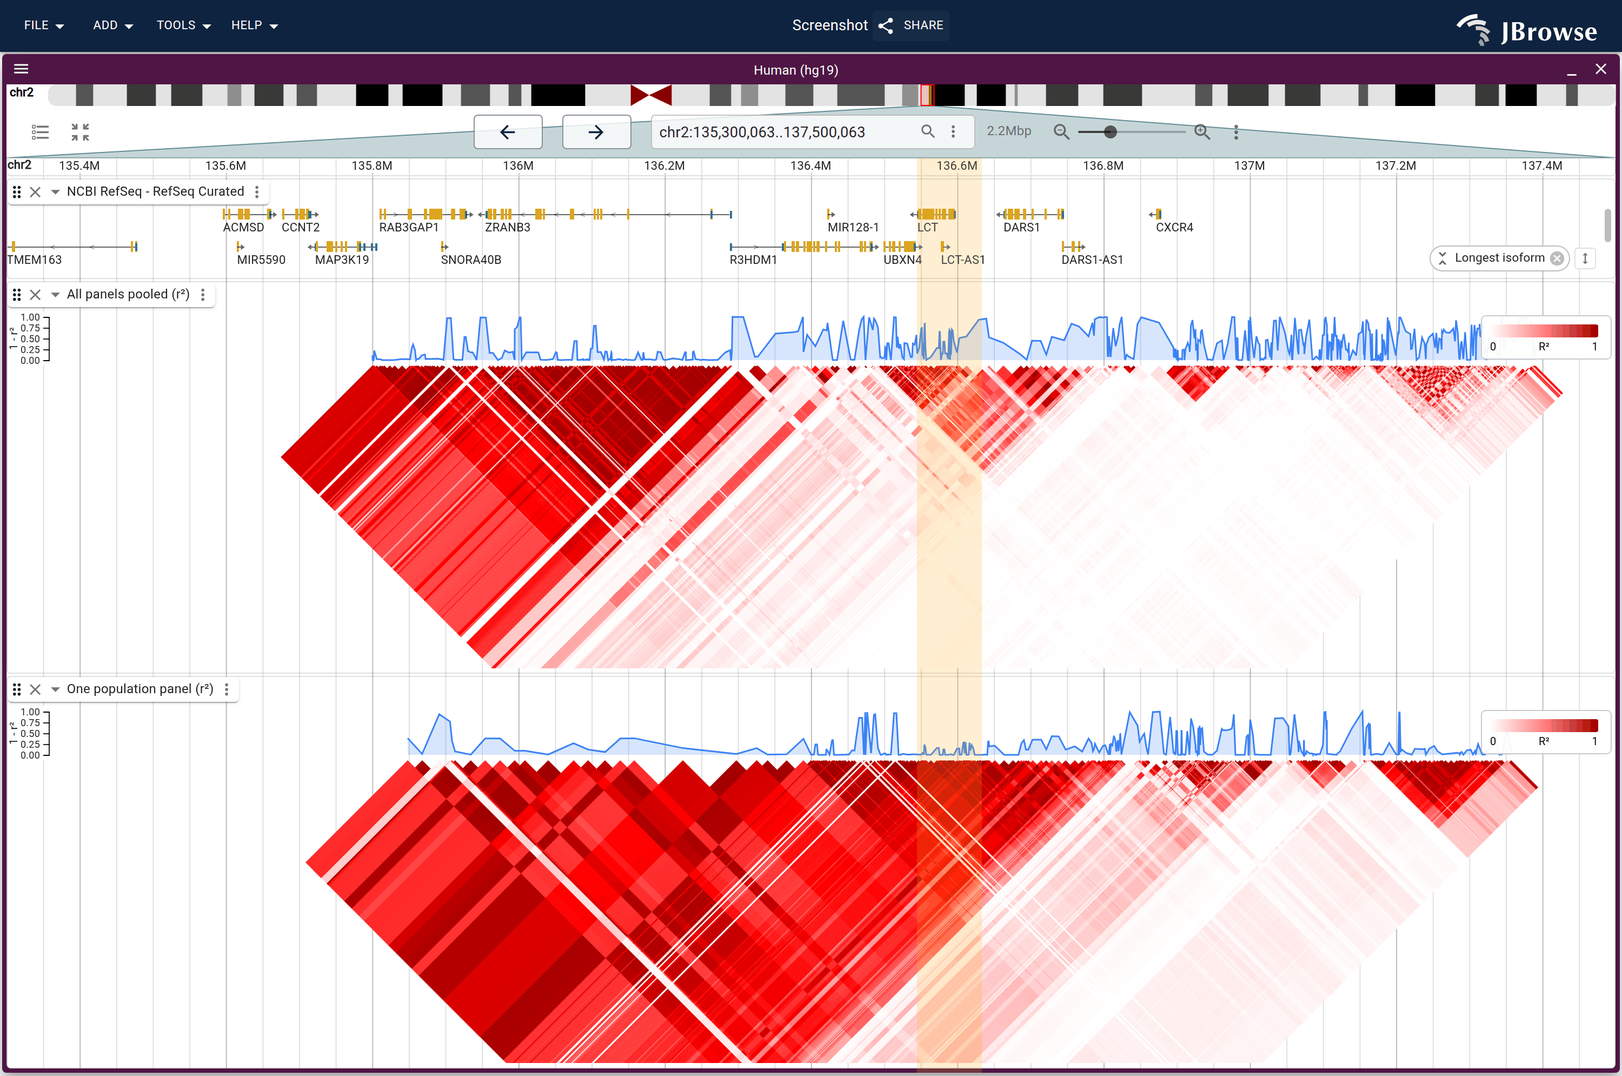
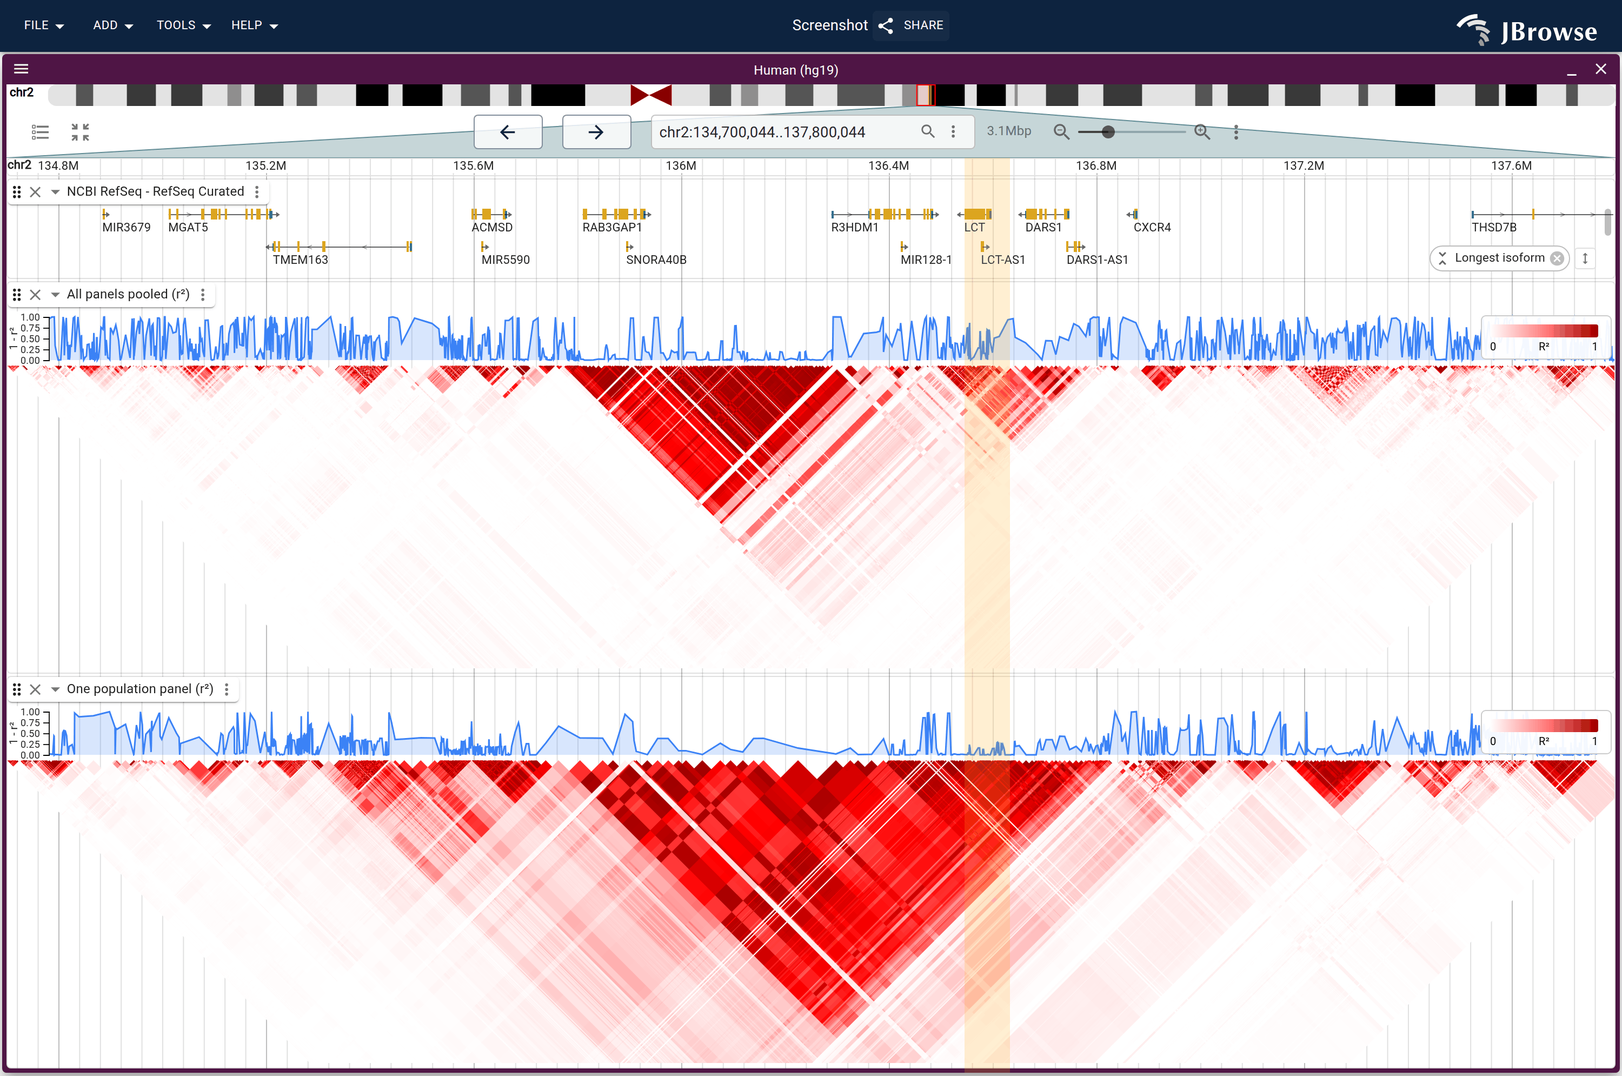
docs(website): widen the pooled-vs-panel LD figure onto the same slice
Both LCT figures now read the 3.3 Mb slices and take the same window, so neither
lane is cut at the edge it is claiming. The pooled slice
(lct_1kg_chr2_pooled_wide.vcf.gz, 16.6 MB, built by the same script) is uploaded
beside the panel one; the pooled lane's live link fetches it, which is the cost of
the wider window on 2504 samples.

The figure had been left narrow on the grounds that its point is which samples
went in rather than where the block ends. That made the page teach "cut the slice
wider than the block" directly above a figure that did not, so the caveat is gone
from the caption too.

The full window appeared to hang twice while rendering, and two narrower windows
were rendered while chasing it; that was CPU contention with a second
generate-screenshots process on the same machine, not the window. It lands in
about 100 s on a free machine, which the spec now records so the next person does
not narrow anything.

Also drops the resolved "Gallery cards hide their live links behind the guide
link" TODO: gallery.astro renders every link from itemLinks now, the 1000 Genomes
card points at tutorials/population_cnv, and the duplicate-pair decision is
recorded in gallery.ts.

A second population panel was measured rather than argued about, and is not drawn:
the reason is editorial (this page teaches subsetting; the population-specific
sweep lesson belongs to the mosquito page, where the populations are mosquitoes),
[…]

diff --git a/website/src/lib/galleryLinks.generated.ts b/website/src/lib/galleryLinks.generated.ts
@@ -136,7 +136,7 @@ export const specSessionUrls: Record<string, string> = {
   "methylation/arabidopsis_wgbs_contexts": "?config=test_data/arabidopsis_methylation/config_emseq_bisulfite.json&session=spec-%7B%22sessionTracks%22%3A%5B%7B%22type%22%3A%22AlignmentsTrack%22%2C%22trackId%22%3A%22arabidopsis_wgbs_cg%22%2C%22name%22%3A%22Per-read%20WGBS%20%E2%80%94%20CpG%20context%22%2C%22assemblyNames%22%3A%5B%22arabidopsis%22%5D%2C%22adapter%22%3A%7B%22type%22%3A%22CramAdapter%22%2C%22uri%22%3A%22https%3A%2F%2Fjbrowse.org%2Fdemos%2Fbisulfite%2Farabidopsis_wgbs_bisulfite.cram%22%7D%7D%2C%7B%22type%22%3A%22AlignmentsTrack%22%2C%22trackId%22%3A%22arabidopsis_wgbs_chg%22%2C%22name%22%3A%22Per-read%20WGBS%20%E2%80%94%20CHG%20context%22%2C%22assemblyNames%22%3A%5B%22arabidopsis%22%5D%2C%22adapter%22%3A%7B%22type%22%3A%22CramAdapter%22%2C%22uri%22%3A%22https%3A%2F%2Fjbrowse.org%2Fdemos%2Fbisulfite%2Farabidopsis_wgbs_bisulfite.cram%22%7D%7D%2C%7B%22type%22%3A%22AlignmentsTrack%22%2C%22trackId%22%3A%22arabidopsis_wgbs_chh%22%2C%22name%22%3A%22Per-read%20WGBS%20%E2%80%94%20CHH%20context%22%2C%22assemblyNames%22%3A%5B%22arabidopsis%22%5D%2C%22adapter%22%3A%7B%22type%22%3A%22CramAdapter%22%2C%22uri%22%3A%22https%3A%2F%2Fjbrowse.org%2Fdemos%2Fbisulfite%2Farabidopsis_wgbs_bisulfite.cram%22%7D%7D%5D%2C%22views%22%3A%5B%7B%22type%22%3A%22LinearGenomeView%22%2C%22assembly%22%3A%22arabidopsis%22%2C%22loc%22%3A%22NC_003070.9%3A4%2C398%2C000-4%2C412%2C000%22%2C%22tracks%22%3A%5B%7B%22trackId%22%3A%22arabidopsis_genes%22%7D%2C%7B%22trackId%22%3A%22arabidopsis_methyldackel%22%2C%22type%22%3A%22MultiLinearWiggleDisplay%22%2C%22defaultRendering%22%3A%22multirowxy%22%2C%22minScore%22%3A0%2C%22maxScore%22%3A100%2C%22height%22%3A170%7D%2C%7B%22trackId%22%3A%22arabidopsis_wgbs_cg%22%2C%22type%22%3A%22LinearAlignmentsDisplay%22%2C%22colorBy%22%3A%7B%22type%22%3A%22bisulfite%22%2C%22modifications%22%3A%7B%22cytosineContext%22%3A%22CG%22%7D%7D%2C%22showCoverage%22%3Afalse%2C%22heightMode%22%3A%22fixed%22%2C%22featureHeight%22%3A3%2C%22featureSpacing%22%3A0%2C%22height%22%3A90%7D%2C%7B%22trackId%22%3A%22arabidopsis_wgbs_chg%22%2C%22type%22%3A%22LinearAlignmentsDisplay%22%2C%22colorBy%22%3A%7B%22type%22%3A%22bisulfite%22%2C%22modifications%22%3A%7B%22cytosineContext%22%3A%22CHG%22%7D%7D%2C%22showCoverage%22%3Afalse%2C%22heightMode%22%3A%22fixed%22%2C%22featureHeight%22%3A3%2C%22featureSpacing%22%3A0%2C%22height%22%3A90%7D%2C%7B%22trackId%22%3A%22arabidopsis_wgbs_chh%22%2C%22type%22%3A%22LinearAlignmentsDisplay%22%2C%22colorBy%22%3A%7B%22type%22%3A%22bisulfite%22%2C%22modifications%22%3A%7B%22cytosineContext%22%3A%22CHH%22%7D%7D%2C%22showCoverage%22%3Afalse%2C%22heightMode%22%3A%22fixed%22%2C%22featureHeight%22%3A3%2C%22featureSpacing%22%3A0%2C%22height%22%3A90%7D%5D%7D%5D%7D&sessionName=Screenshot",
   "methylation/chromatin_accessibility_6ma": "?config=test_data/config_demo.json&session=spec-%7B%22sessionTracks%22%3A%5B%7B%22type%22%3A%22FeatureTrack%22%2C%22trackId%22%3A%22gencode_promoter_hg38_ucsc%22%2C%22name%22%3A%22GENCODE%20v48%20promoter%20windows%20(UCSC)%22%2C%22assemblyNames%22%3A%5B%22hg38%22%5D%2C%22adapter%22%3A%7B%22type%22%3A%22Gff3TabixAdapter%22%2C%22gffGzLocation%22%3A%7B%22uri%22%3A%22https%3A%2F%2Fjbrowse.org%2Fucsc%2Fhg38%2Fgencode.v48.promoter_windows.sorted.gff3.gz%22%2C%22locationType%22%3A%22UriLocation%22%7D%2C%22index%22%3A%7B%22location%22%3A%7B%22uri%22%3A%22https%3A%2F%2Fjbrowse.org%2Fucsc%2Fhg38%2Fgencode.v48.promoter_windows.sorted.gff3.gz.csi%22%2C%22locationType%22%3A%22UriLocation%22%7D%2C%22indexType%22%3A%22CSI%22%7D%7D%7D%5D%2C%22views%22%3A%5B%7B%22type%22%3A%22LinearGenomeView%22%2C%22assembly%22%3A%22hg38%22%2C%22loc%22%3A%22chr12%3A6%2C528%2C000-6%2C543%2C000%22%2C%22tracks%22%3A%5B%7B%22trackId%22%3A%22ncbi_refseq_109_hg38_latest%22%2C%22type%22%3A%22LinearBasicDisplay%22%2C%22geneGlyphMode%22%3A%22longestCoding%22%7D%2C%22gencode_promoter_hg38_ucsc%22%2C%7B%22trackId%22%3A%22PAY22766-nanopore%22%2C%22type%22%3A%22LinearAlignmentsDisplay%22%2C%22colorBy%22%3A%7B%22type%22%3A%22modifications%22%2C%22modifications%22%3A%7B%22shownModifications%22%3A%5B%22a%22%5D%7D%7D%2C%22heightMode%22%3A%22fixed%22%2C%22featureHeight%22%3A3%2C%22featureSpacing%22%3A0%2C%22showLegend%22%3Atrue%7D%2C%7B%22trackId%22%3A%22PBA15131-nanopore%22%2C%22type%22%3A%22LinearAlignmentsDisplay%22%2C%22colorBy%22%3A%7B%22type%22%3A%22modifications%22%2C%22modifications%22%3A%7B%22shownModifications%22%3A%5B%22a%22%5D%7D%7D%2C%22heightMode%22%3A%22fixed%22%2C%22featureHeight%22%3A3%2C%22featureSpacing%22%3A0%7D%5D%7D%5D%7D&sessionName=Screenshot",
   "methylation/hg002_snrpn_combined": "?config=test_data/config_demo.json&session=spec-%7B%22views%22%3A%5B%7B%22type%22%3A%22LinearGenomeView%22%2C%22assembly%22%3A%22hg38%22%2C%22loc%22%3A%22chr15%3A24%2C948%2C000-24%2C962%2C000%22%2C%22tracks%22%3A%5B%7B%22trackId%22%3A%22cpgisland_ucsc_hg38%22%2C%22type%22%3A%22LinearBasicDisplay%22%2C%22height%22%3A40%7D%2C%7B%22trackId%22%3A%22ncbi_refseq_109_hg38_latest%22%2C%22type%22%3A%22LinearBasicDisplay%22%2C%22geneGlyphMode%22%3A%22longestCoding%22%2C%22displayMode%22%3A%22compact%22%2C%22height%22%3A90%7D%2C%7B%22trackId%22%3A%22HG002_snrpn_modkit_hp1%22%2C%22type%22%3A%22MultiLinearWiggleDisplay%22%2C%22defaultRendering%22%3A%22multirowxy%22%2C%22minScore%22%3A0%2C%22maxScore%22%3A100%2C%22height%22%3A90%7D%2C%7B%22trackId%22%3A%22HG002_snrpn_modkit_hp2%22%2C%22type%22%3A%22MultiLinearWiggleDisplay%22%2C%22defaultRendering%22%3A%22multirowxy%22%2C%22minScore%22%3A0%2C%22maxScore%22%3A100%2C%22height%22%3A90%7D%2C%7B%22trackId%22%3A%22HG002_snrpn_5mC_reads%22%2C%22type%22%3A%22LinearAlignmentsDisplay%22%2C%22height%22%3A460%2C%22forceLoad%22%3Atrue%2C%22groupBy%22%3A%7B%22type%22%3A%22tag%22%2C%22tag%22%3A%22HP%22%7D%2C%22colorBy%22%3A%7B%22type%22%3A%22modifications%22%2C%22modifications%22%3A%7B%22fillUnmarked%22%3Atrue%7D%7D%7D%5D%7D%5D%7D&sessionName=Screenshot",
-  "ld/lct_pooled_vs_panel": "?config=https%3A%2F%2Fjbrowse.org%2Fucsc%2Fhg19%2Fconfig.json&session=spec-%7B%22sessionTracks%22%3A%5B%7B%22type%22%3A%22VariantTrack%22%2C%22trackId%22%3A%22kgp_lct_pooled%22%2C%22name%22%3A%22All%20panels%20pooled%20(r%C2%B2)%22%2C%22assemblyNames%22%3A%5B%22hg19%22%5D%2C%22adapter%22%3A%7B%22type%22%3A%22VcfTabixAdapter%22%2C%22uri%22%3A%22https%3A%2F%2Fjbrowse.org%2Fdemos%2Fpopgen%2Flct_1kg_chr2.vcf.gz%22%2C%22fetchSizeLimit%22%3A500000000%7D%2C%22displays%22%3A%5B%7B%22type%22%3A%22LDDisplay%22%2C%22showLDTriangle%22%3Atrue%2C%22showLegend%22%3Atrue%2C%22showRecombination%22%3Atrue%2C%22minorAlleleFrequencyFilter%22%3A0.35%2C%22height%22%3A330%2C%22useGenomicPositions%22%3Atrue%7D%5D%7D%2C%7B%22type%22%3A%22VariantTrack%22%2C%22trackId%22%3A%22kgp_lct_panel%22%2C%22name%22%3A%22One%20population%20panel%20(r%C2%B2)%22%2C%22assemblyNames%22%3A%5B%22hg19%22%5D%2C%22adapter%22%3A%7B%22type%22%3A%22VcfTabixAdapter%22%2C%22uri%22%3A%22https%3A%2F%2Fjbrowse.org%2Fdemos%2Fpopgen%2Flct_1kg_chr2_eur.vcf.gz%22%2C%22fetchSizeLimit%22%3A500000000%7D%2C%22displays%22%3A%5B%7B%22type%22%3A%22LDDisplay%22%2C%22showLDTriangle%22%3Atrue%2C%22showLegend%22%3Atrue%2C%22showRecombination%22%3Atrue%2C%22minorAlleleFrequencyFilter%22%3A0.35%2C%22height%22%3A330%2C%22useGenomicPositions%22%3Atrue%7D%5D%7D%5D%2C%22views%22%3A%5B%7B%22type%22%3A%22LinearGenomeView%22%2C%22assembly%22%3A%22hg19%22%2C%22loc%22%3A%22chr2%3A135%2C300%2C000-137%2C500%2C000%22%2C%22highlight%22%3A%5B%7B%22refName%22%3A%22chr2%22%2C%22start%22%3A136545410%2C%22end%22%3A136634000%2C%22assemblyName%22%3A%22hg19%22%7D%5D%2C%22tracks%22%3A%5B%7B%22trackId%22%3A%22hg19-ncbiRefSeqCurated%22%2C%22type%22%3A%22LinearBasicDisplay%22%2C%22height%22%3A60%2C%22showOnlyGenes%22%3Atrue%7D%2C%7B%22trackId%22%3A%22kgp_lct_pooled%22%2C%22type%22%3A%22LDDisplay%22%7D%2C%7B%22trackId%22%3A%22kgp_lct_panel%22%2C%22type%22%3A%22LDDisplay%22%7D%5D%7D%5D%7D&sessionName=Screenshot",
+  "ld/lct_pooled_vs_panel": "?config=https%3A%2F%2Fjbrowse.org%2Fucsc%2Fhg19%2Fconfig.json&session=spec-%7B%22sessionTracks%22%3A%5B%7B%22type%22%3A%22VariantTrack%22%2C%22trackId%22%3A%22kgp_lct_pooled%22%2C%22name%22%3A%22All%20panels%20pooled%20(r%C2%B2)%22%2C%22assemblyNames%22%3A%5B%22hg19%22%5D%2C%22adapter%22%3A%7B%22type%22%3A%22VcfTabixAdapter%22%2C%22uri%22%3A%22https%3A%2F%2Fjbrowse.org%2Fdemos%2Fpopgen%2Flct_1kg_chr2_pooled_wide.vcf.gz%22%2C%22fetchSizeLimit%22%3A500000000%7D%2C%22displays%22%3A%5B%7B%22type%22%3A%22LDDisplay%22%2C%22showLDTriangle%22%3Atrue%2C%22showLegend%22%3Atrue%2C%22showRecombination%22%3Atrue%2C%22minorAlleleFrequencyFilter%22%3A0.35%2C%22height%22%3A330%2C%22useGenomicPositions%22%3Atrue%7D%5D%7D%2C%7B%22type%22%3A%22VariantTrack%22%2C%22trackId%22%3A%22kgp_lct_panel%22%2C%22name%22%3A%22One%20population%20panel%20(r%C2%B2)%22%2C%22assemblyNames%22%3A%5B%22hg19%22%5D%2C%22adapter%22%3A%7B%22type%22%3A%22VcfTabixAdapter%22%2C%22uri%22%3A%22https%3A%2F%2Fjbrowse.org%2Fdemos%2Fpopgen%2Flct_1kg_chr2_eur_wide.vcf.gz%22%2C%22fetchSizeLimit%22%3A500000000%7D%2C%22displays%22%3A%5B%7B%22type%22%3A%22LDDisplay%22%2C%22showLDTriangle%22%3Atrue%2C%22showLegend%22%3Atrue%2C%22showRecombination%22%3Atrue%2C%22minorAlleleFrequencyFilter%22%3A0.35%2C%22height%22%3A330%2C%22useGenomicPositions%22%3Atrue%7D%5D%7D%5D%2C%22views%22%3A%5B%7B%22type%22%3A%22LinearGenomeView%22%2C%22assembly%22%3A%22hg19%22%2C%22loc%22%3A%22chr2%3A134%2C700%2C000-137%2C800%2C000%22%2C%22highlight%22%3A%5B%7B%22refName%22%3A%22chr2%22%2C%22start%22%3A136545410%2C%22end%22%3A136634000%2C%22assemblyName%22%3A%22hg19%22%7D%5D%2C%22tracks%22%3A%5B%7B%22trackId%22%3A%22hg19-ncbiRefSeqCurated%22%2C%22type%22%3A%22LinearBasicDisplay%22%2C%22height%22%3A60%2C%22showOnlyGenes%22%3Atrue%7D%2C%7B%22trackId%22%3A%22kgp_lct_pooled%22%2C%22type%22%3A%22LDDisplay%22%7D%2C%7B%22trackId%22%3A%22kgp_lct_panel%22%2C%22type%22%3A%22LDDisplay%22%7D%5D%7D%5D%7D&sessionName=Screenshot",
   "ld/anopheles_2la": "?config=https%3A%2F%2Fjbrowse.org%2Fucsc%2FanoGam3%2Fconfig.json&session=spec-%7B%22sessionTracks%22%3A%5B%7B%22type%22%3A%22LDTrack%22%2C%22trackId%22%3A%22ag1000g_2l_cmgam%22%2C%22name%22%3A%22Cameroon%2C%20both%20arrangements%20segregating%20(r%C2%B2)%22%2C%22assemblyNames%22%3A%5B%22anoGam3%22%5D%2C%22adapter%22%3A%7B%22type%22%3A%22PlinkLDTabixAdapter%22%2C%22uri%22%3A%22https%3A%2F%2Fjbrowse.org%2Fdemos%2Fpopgen%2Fag1000g_2L_CMgam.ld.gz%22%7D%2C%22displays%22%3A%5B%7B%22type%22%3A%22LDTrackDisplay%22%2C%22ldMetric%22%3A%22r2%22%2C%22useGenomicPositions%22%3Atrue%2C%22showLegend%22%3Atrue%2C%22height%22%3A300%7D%5D%7D%2C%7B%22type%22%3A%22LDTrack%22%2C%22trackId%22%3A%22ag1000g_2l_gagam%22%2C%22name%22%3A%22Gabon%2C%20fixed%20for%20one%20arrangement%20(r%C2%B2)%22%2C%22assemblyNames%22%3A%5B%22anoGam3%22%5D%2C%22adapter%22%3A%7B%22type%22%3A%22PlinkLDTabixAdapter%22%2C%22uri%22%3A%22https%3A%2F%2Fjbrowse.org%2Fdemos%2Fpopgen%2Fag1000g_2L_GAgam.ld.gz%22%7D%2C%22displays%22%3A%5B%7B%22type%22%3A%22LDTrackDisplay%22%2C%22ldMetric%22%3A%22r2%22%2C%22useGenomicPositions%22%3Atrue%2C%22showLegend%22%3Atrue%2C%22height%22%3A300%7D%5D%7D%5D%2C%22views%22%3A%5B%7B%22type%22%3A%22LinearGenomeView%22%2C%22assembly%22%3A%22anoGam3%22%2C%22loc%22%3A%22chr2L%22%2C%22tracks%22%3A%5B%7B%22trackId%22%3A%22ag1000g_2l_cmgam%22%2C%22type%22%3A%22LDTrackDisplay%22%7D%2C%7B%22trackId%22%3A%22ag1000g_2l_gagam%22%2C%22type%22%3A%22LDTrackDisplay%22%7D%5D%7D%5D%7D&sessionName=Screenshot",
   "ld/lct_lactase": "?config=https%3A%2F%2Fjbrowse.org%2Fucsc%2Fhg19%2Fconfig.json&session=spec-%7B%22sessionTracks%22%3A%5B%7B%22type%22%3A%22VariantTrack%22%2C%22trackId%22%3A%22kgp_lct_ld%22%2C%22name%22%3A%22LCT%20lactase-persistence%20LD%2C%201000G%20European%20panel%20(r%C2%B2)%22%2C%22assemblyNames%22%3A%5B%22hg19%22%5D%2C%22adapter%22%3A%7B%22type%22%3A%22VcfTabixAdapter%22%2C%22uri%22%3A%22https%3A%2F%2Fjbrowse.org%2Fdemos%2Fpopgen%2Flct_1kg_chr2_eur_wide.vcf.gz%22%2C%22fetchSizeLimit%22%3A500000000%7D%2C%22displays%22%3A%5B%7B%22type%22%3A%22LDDisplay%22%2C%22showLDTriangle%22%3Atrue%2C%22showLegend%22%3Atrue%2C%22showRecombination%22%3Atrue%2C%22minorAlleleFrequencyFilter%22%3A0.35%2C%22useGenomicPositions%22%3Atrue%2C%22height%22%3A510%7D%5D%7D%5D%2C%22views%22%3A%5B%7B%22type%22%3A%22LinearGenomeView%22%2C%22assembly%22%3A%22hg19%22%2C%22loc%22%3A%22chr2%3A134%2C700%2C000-137%2C800%2C000%22%2C%22highlight%22%3A%5B%7B%22refName%22%3A%22chr2%22%2C%22start%22%3A136545410%2C%22end%22%3A136634000%2C%22assemblyName%22%3A%22hg19%22%7D%5D%2C%22tracks%22%3A%5B%7B%22trackId%22%3A%22hg19-ncbiRefSeqCurated%22%2C%22type%22%3A%22LinearBasicDisplay%22%2C%22height%22%3A60%2C%22showOnlyGenes%22%3Atrue%7D%2C%7B%22trackId%22%3A%22hg19-clinvarMain%22%2C%22type%22%3A%22LinearBasicDisplay%22%2C%22height%22%3A70%2C%22jexlFiltersSetting%22%3A%5B%22jexl%3Aget(feature%2C'phenotypeList')%3D%3D'LACTASE%20PERSISTENCE'%22%5D%7D%2C%7B%22trackId%22%3A%22kgp_lct_ld%22%2C%22type%22%3A%22LDDisplay%22%7D%5D%7D%5D%7D&sessionName=Screenshot",
   "popgen/fst_in2lt_2L": "?config=https%3A%2F%2Fjbrowse.org%2Fucsc%2Fdm6%2Fconfig.json&session=spec-%7B%22sessionTracks%22%3A%5B%7B%22type%22%3A%22FeatureTrack%22%2C%22trackId%22%3A%22in2lt_inversion%22%2C%22name%22%3A%22In(2L)t%20inversion%22%2C%22assemblyNames%22%3A%5B%22dm6%22%5D%2C%22adapter%22%3A%7B%22type%22%3A%22FromConfigAdapter%22%2C%22adapterId%22%3A%22in2lt%22%2C%22features%22%3A%5B%7B%22uniqueId%22%3A%22in2lt%22%2C%22refName%22%3A%22chr2L%22%2C%22start%22%3A2225744%2C%22end%22%3A13154180%2C%22name%22%3A%22In(2L)t%22%2C%22type%22%3A%22inversion%22%7D%5D%7D%7D%2C%7B%22type%22%3A%22QuantitativeTrack%22%2C%22trackId%22%3A%22fst_in2lt%22%2C%22name%22%3A%22Fst%20(In(2L)t%20vs%20standard)%22%2C%22assemblyNames%22%3A%5B%22dm6%22%5D%2C%22adapter%22%3A%7B%22type%22%3A%22BigWigAdapter%22%2C%22uri%22%3A%22https%3A%2F%2Fjbrowse.org%2Fdemos%2Fpopgen%2Ffst_In2Lt.bw%22%7D%7D%5D%2C%22views%22%3A%5B%7B%22type%22%3A%22LinearGenomeView%22%2C%22assembly%22%3A%22dm6%22%2C%22displayedRegionNames%22%3A%5B%22chr2L%22%2C%22chr2R%22%2C%22chr3L%22%2C%22chr3R%22%2C%22chr4%22%2C%22chrX%22%5D%2C%22tracks%22%3A%5B%7B%22trackId%22%3A%22in2lt_inversion%22%2C%22type%22%3A%22LinearBasicDisplay%22%2C%22height%22%3A40%7D%2C%7B%22trackId%22%3A%22fst_in2lt%22%2C%22type%22%3A%22LinearWiggleDisplay%22%2C%22height%22%3A340%7D%5D%7D%5D%7D&sessionName=Screenshot",

diff --git a/website/scripts/specs/ld.ts b/website/scripts/specs/ld.ts
@@ -19,15 +19,17 @@ import type { ScreenshotSpec } from '../screenshot-spec-types.ts'
 // on the EBI FTP being up. The VCF names the contig "2"; the hosted UCSC hg19
 // hub's chromAlias reconciles "chr2" at query time.
 //
-// TWO SLICES, DELIBERATELY. The lactase figure reads a 3.3 Mb one
-// (chr2:134.6-137.9 Mb, scripts/build_lct_ld.sh); the pooled-vs-panel figure
-// keeps the original 1.65 Mb pair (chr2:135.8-137.4 Mb). The original began at
-// 135.75 Mb, which is also where the swept block begins, so the figure was cut
-// at the edge it was claiming and nothing in it distinguished "the LD ends here"
-// from "the file ends here" (review: "the recombination triangle covers whole
-// screen. what is user supposed to take away?"). The pooled figure is about
-// which SAMPLES went in rather than where the block ends, and a pooled slice of
-// the wider window is ~23 MB behind a live link.
+// BOTH LCT FIGURES READ THE 3.3 Mb SLICES (chr2:134.6-137.9 Mb, built by
+// scripts/build_lct_ld.sh: `_eur_wide` 4.5 MB, `_pooled_wide` 16.6 MB). The
+// original 1.65 Mb pair began at 135.75 Mb, which is also where the swept block
+// begins, so a figure on them was cut at the edge it was claiming and nothing in
+// it distinguished "the LD ends here" from "the file ends here" (review: "the
+// recombination triangle covers whole screen. what is user supposed to take
+// away?"). The pooled-vs-panel figure was left narrow for one round, on the
+// grounds that its point is which SAMPLES went in; that made the page teach "cut
+// the window wider than the block" above a figure that doesn't, so it moved too.
+// The pooled lane's live link now fetches 16.6 MB, which is the cost of the
+// wider window on 2504 samples.
 //
 // LD IS PER-POPULATION, SO THE SLICE IS TOO. The figure used to run on the
 // pooled 2504-sample file and the block came out pink and fragmented, because
@@ -86,9 +88,15 @@ const lctTrack = (name: string) => ({
 // right, so this carries the block plus about a megabase either side of it.
 const LCT_LOC = 'chr2:134,700,000-137,800,000'
 
-// The pooled-vs-panel window, narrower because its files are: at LCT_LOC those
-// two lanes would start a megabase inside the frame, which reads as missing data.
-const LCT_WIDE_LOC = 'chr2:135,300,000-137,500,000'
+// Both LCT figures take the same window. This one is the expensive render of the
+// two: r² is computed live, and the pooled lane correlates 5008 haplotypes
+// against the panel's 1006. It still lands in about 100 s, so the readyTimeout
+// below is headroom rather than a measured need. Two intermediate windows (1.4
+// and 2.1 Mb) were rendered while narrowing this down after the full window
+// appeared to hang twice; that turned out to be CPU contention with another
+// generator run on the same machine, not the window. If it hangs again, check for
+// a second `generate-screenshots` process before shrinking anything.
+const LCT_WIDE_LOC = LCT_LOC
 
 // Band the LCT/MCM6 locus so the reader sees the high-r² block sits right over
 // the lactase gene (the enhancer variant rs4988235 is in an MCM6 intron,
@@ -192,6 +200,15 @@ const TWO_LA_LOCUS = 'chr2L:20,524,058-42,165,532'
 // not what this page is for. The population-specific-sweep lesson is carried by
 // the Anopheles figure, where the populations are mosquitoes and presence or
 // absence of the arrangement is itself the result.
+//
+// A second panel lane was measured rather than argued about, and the measurement
+// does NOT say it would look bad: over the block, mean pairwise r² is 0.826 in
+// this panel, 0.508 pooled, and 0.175 in the release's largest other panel, but
+// that third number is long-range pairs. Locally (pairs within 100 kb) that panel
+// runs 0.06-0.54 against this one's 0.20-0.90, with a short-range peak of its
+// own, so the lane would read as fine-grained speckle against one long block
+// rather than as a blank. The reason not to draw it is the editorial one above,
+// not legibility.
 const lctPanelTrack = (trackId: string, name: string, file: string) => ({
   type: 'VariantTrack',
   trackId,
@@ -233,12 +250,12 @@ export const ldSpecs: ScreenshotSpec[] = [
         lctPanelTrack(
           'kgp_lct_pooled',
           'All panels pooled (r²)',
-          'lct_1kg_chr2.vcf.gz',
+          'lct_1kg_chr2_pooled_wide.vcf.gz',
         ),
         lctPanelTrack(
           'kgp_lct_panel',
           'One population panel (r²)',
-          'lct_1kg_chr2_eur.vcf.gz',
+          'lct_1kg_chr2_eur_wide.vcf.gz',
         ),
       ],
       views: [
@@ -268,7 +285,8 @@ export const ldSpecs: ScreenshotSpec[] = [
     // duration guess
     readySelector:
       'body:has([data-testid="ld-display-done"][data-display-phase="ready"]):not(:has([data-testid="ld-display"])):not(:has([data-display-phase="loading"]))',
-    readyTimeout: 240000,
+    // 21 MB of genotypes across the two lanes, the pooled one on 2504 samples
+    readyTimeout: 600000,
     // the gene lane, then two LD tracks (330 triangle + 50 recombination zone
     // each) + 2 headers + ruler/overview
     viewportHeight: 995,

diff --git a/agent-docs/TODO.md b/agent-docs/TODO.md
@@ -231,22 +231,6 @@ Rank is also a weak rarity bound (rank r proves absence from haplotypes 1..r-1,
 nothing more), worth a color ramp only where no `AF` exists, i.e. a user's own
 graph rather than HPRC.
 
-## Gallery cards hide their live links behind the guide link
-
-`website/src/pages/gallery.astro:117-140` renders the guide link **or** the live
-link, never both. 38 of the 39 cards set `guide:`, so all but one show only
-"Read the guide", and "Open in JBrowse" is reachable there only by clicking the
-image into the lightbox. That is most of why the gallery reads as pointing at
-reference pages rather than at a browser you can drive. Showing both is a few
-lines and needs no new docs.
-
-While in there, one duplicate-capability pair is still standing, left alone
-pending a decision to cut one: `Clustered copy-number heatmap` (1000 Genomes)
-against `TCGA-BRCA cohort copy number`. The 1000G card also still points its
-`guide:` at `user_guides/multiquantitative_track`, written before
-`tutorials/population_cnv` existed, which is now the better destination.
-
-
 ## consider rehosting
 
 https://jbrowse.org/jb2-staging/docs/tutorials/population_genomics/

diff --git a/website/docs/tutorials/ld_human.md b/website/docs/tutorials/ld_human.md
@@ -38,11 +38,12 @@ The blue curve is the recombination track
 − r² between adjacent variants. It sits near zero across the block and spikes at
 its edges.
 
-### Cut the window wider than the block
+### Cut the slice wider than the block
 
 A slice that begins where the block begins cannot show that it ends, and renders
 as a triangle filling the frame. The reproduce script prints r² against the
-causal variant along the slice, which is how to pick the edges.
+causal variant along the slice, which is how to pick the edges. Note this is the
+file, not the view: zooming out past the end of the file only adds white.
 
 ### Subset the VCF to one panel
 

diff --git a/agent-docs/OTHER_IDEAS.md b/agent-docs/OTHER_IDEAS.md
@@ -2431,8 +2431,7 @@ under the matrix.
 `PlinkLDTabixAdapter` ship with LocusZoom-style r-squared coloring and
 right-click re-anchoring of the index SNP. The gallery card
 (`gallery/gwas_bmi_fto`) points at a user guide because no tutorial exists.
-Distinct from `linkage_disequilibrium.md`, which teaches the triangle and
-deliberately argues the triangle is a kb-scale tool.
+Distinct from `ld_human.md`, which teaches the triangle at a kb-scale sweep.
 
 **Conservation and multiple alignments.** phyloP 100-way (hg19 and hg38, line
 and density variants) is hosted, and the MAF stack (bigMaf, MafTabix, taffy,
